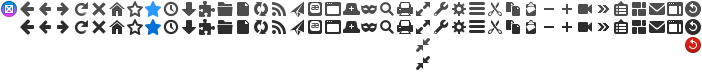
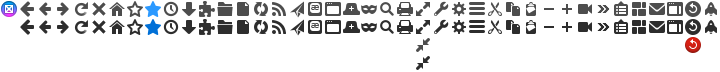
Bug 1031019: add "Apps" toolbar button that points to Marketplace, r=jared/Gijs

Changed region(s): [[0.0, 0.0, 1.0, 0.75], [0.5684, 0.7778, 0.6282, 0.9722], [0.5684, 0.5278, 0.6282, 0.7222]]

diff --git a/browser/themes/osx/browser.css b/browser/themes/osx/browser.css
@@ -1131,6 +1131,13 @@ toolbar .toolbarbutton-1 > .toolbarbutton-menubutton-dropmarker > .dropmarker-ic
     transform: scaleX(-1);
   }
 
+  #web-apps-button[cui-areatype="toolbar"] {
+    -moz-image-region: rect(0, 1440px, 36px, 1404px);
+  }
+
+  #web-apps-button[cui-areatype="toolbar"]:hover:active:not([disabled="true"]) {
+    -moz-image-region: rect(36px, 1440px, 72px, 1404px);
+  }
 
   :-moz-any(@primaryToolbarButtons@) > .toolbarbutton-icon,
   :-moz-any(@primaryToolbarButtons@) > .toolbarbutton-menubutton-button > .toolbarbutton-icon {
@@ -1288,6 +1295,11 @@ toolbar .toolbarbutton-1 > .toolbarbutton-menubutton-dropmarker > .dropmarker-ic
 
   #panic-button[cui-areatype="menu-panel"][panel-multiview-anchor=true] {
     -moz-image-region: rect(64px, 1792px, 128px, 1728px);
+  }
+
+  #web-apps-button[cui-areatype="menu-panel"],
+  toolbarpaletteitem[place="palette"] > #web-apps-button {
+    -moz-image-region: rect(0, 1856px, 64px, 1792px);
   }
 
   toolbaritem[sdkstylewidget="true"] > toolbarbutton {

diff --git a/browser/themes/shared/toolbarbuttons.inc.css b/browser/themes/shared/toolbarbuttons.inc.css
@@ -190,6 +190,15 @@ toolbar[brighttext] #sync-button[status="active"]:hover:active:not([disabled="tr
   transform: scaleX(-1);
 }
 
+#web-apps-button[cui-areatype="toolbar"] {
+  -moz-image-region: rect(0, 720px, 18px, 702px);
+}
+
+%ifdef XP_MACOSX
+#web-apps-button[cui-areatype="toolbar"]:hover:active:not([disabled="true"]) {
+  -moz-image-region: rect(18px, 720px, 36px, 702px);
+}
+%endif
 
 #loop-call-button > .toolbarbutton-badge-container {
   list-style-image: url(chrome://browser/skin/loop/toolbar.png);

diff --git a/browser/themes/shared/menupanel.inc.css b/browser/themes/shared/menupanel.inc.css
@@ -156,6 +156,11 @@ toolbarpaletteitem[place="palette"] > #panic-button {
   -moz-image-region: rect(32px, 896px, 64px, 864px);
 }
 
+#web-apps-button[cui-areatype="menu-panel"],
+toolbarpaletteitem[place="palette"] > #web-apps-button {
+  -moz-image-region: rect(0, 928px, 32px, 896px);
+}
+
 toolbaritem[sdkstylewidget="true"] > toolbarbutton {
   -moz-image-region: rect(0, 832px, 32px, 800px);
 }
